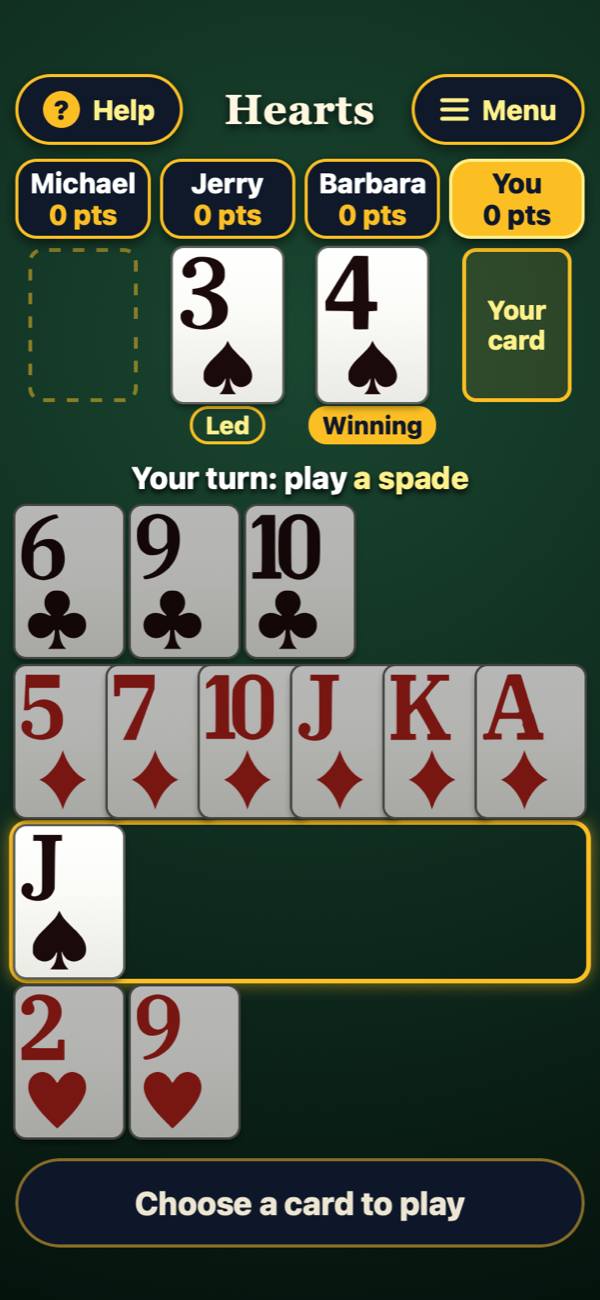
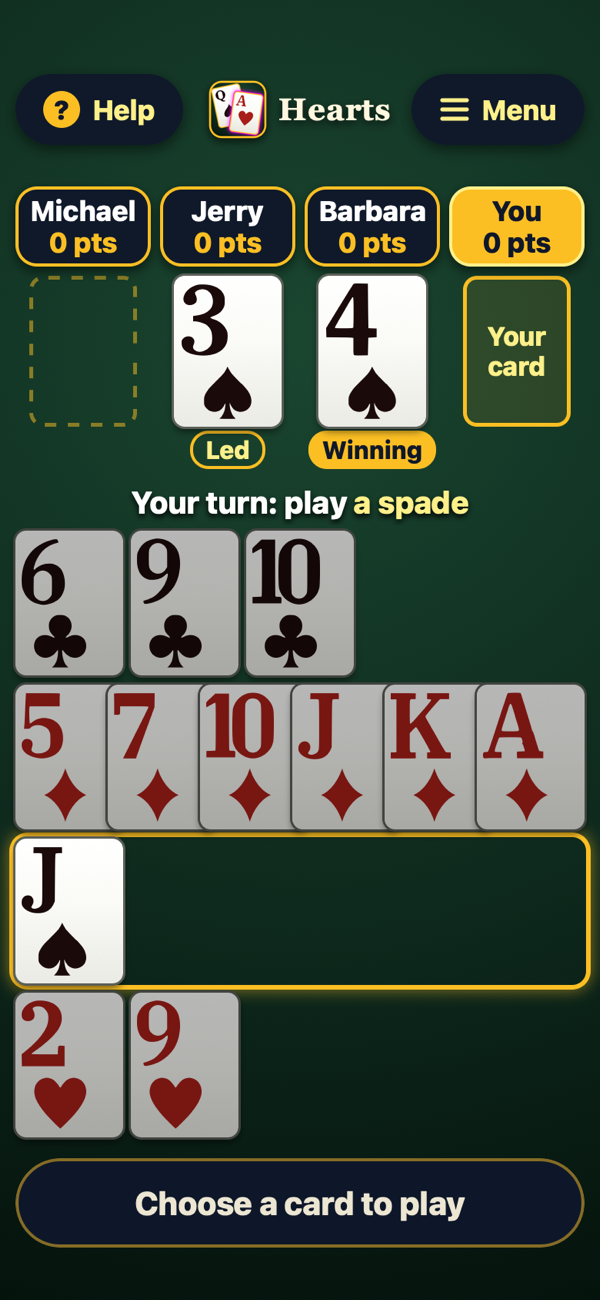
Case study and README: end-of-day update after the playtest
New hero screenshot of the current game, the carry-forward tap rule under
"Rules I set", division of labor and version history brought up to date,
and the README's on-the-phone checklist.

diff --git a/case-study/index.html b/case-study/index.html
@@ -186,6 +186,7 @@
       <li><strong>Measure, don't estimate.</strong> Contrast ratios are measured from the rendered screen, and every layout is checked at true phone size.</li>
       <li><strong>Each AI keeps its own site.</strong> My shared games site is "reserved for the winner of each new game," copied in only after I choose.</li>
       <li><strong>Public pages keep her anonymous.</strong> Describe her condition "in vague terms to preserve patient anonymity."</li>
+      <li><strong>Her fixes carry forward.</strong> What her playtest taught about tapping is "applied to every game you create," from the first build.</li>
     </ul>
   </section>
 
@@ -368,6 +369,7 @@
           <li>Wrote the rules engine and computer players, tested over 5,000 simulated games.</li>
           <li>Built every options page and measured contrast from the rendered screen.</li>
           <li>Tested each release at four iPhone sizes, on this Mac and on the live site.</li>
+          <li>Turned each playtest observation into a change, and matched the loudness of six sound options by measurement.</li>
         </ul>
       </div>
       <div>
@@ -377,6 +379,7 @@
           <li>Brought the seven-of-a-suit hand from my mom's real game.</li>
           <li>Asked for delight, then for a WCAG check of my own pick.</li>
           <li>Set where each AI's work lives and how she is described in public.</li>
+          <li>Watched her play and turned what I saw into the next round of changes.</li>
         </ul>
       </div>
     </div>
@@ -407,6 +410,8 @@
       <summary>Version history</summary>
       <div class="log">
         <table>
+          <tr><td>b941bd7</td><td>Marimba "not allowed" sound; playable cards hop twice</td></tr>
+          <tr><td>0b557df</td><td>Playtest picks live: cards glide into her hand, refused taps shake and hop, logo and bigger points</td></tr>
           <tr><td>021c5e0</td><td>Long holds and slides count as taps; a buzz for "not allowed"; playtest options</td></tr>
           <tr><td>1a5d7b7</td><td>New Home Screen icon</td></tr>
           <tr><td>d802fe7</td><td>Six ace-and-queen icon versions with glow and border switches</td></tr>

diff --git a/hearts/README.md b/hearts/README.md
@@ -72,7 +72,7 @@ Shawn's picks (Sept 24, live, cache v9), from https://sghanna.github.io/claude/h
 - Offline play was checked in Chromium, because Playwright's WebKit can't reload any page while offline.
 - Screenshots of every stage of a game were checked by eye in all three languages.
 
-**Not tested:** a real iPhone, airplane mode on a real iPhone, VoiceOver, and Mom. On her phone, check: text size and contrast, whether Slow is slow enough, and whether she understands the gold outline and the "+3" badges.
+**Not tested:** a real iPhone, airplane mode on a real iPhone, and VoiceOver. Mom played it on Sept 24; the changes from that playtest are above. On her phone, check: a long press and a slide off the Play button each count as one tap, a tap on a card she can't play buzzes twice (iOS 18+), the three passed cards glide into her hand, and whether Slow is slow enough.
 
 ## Not done
 
